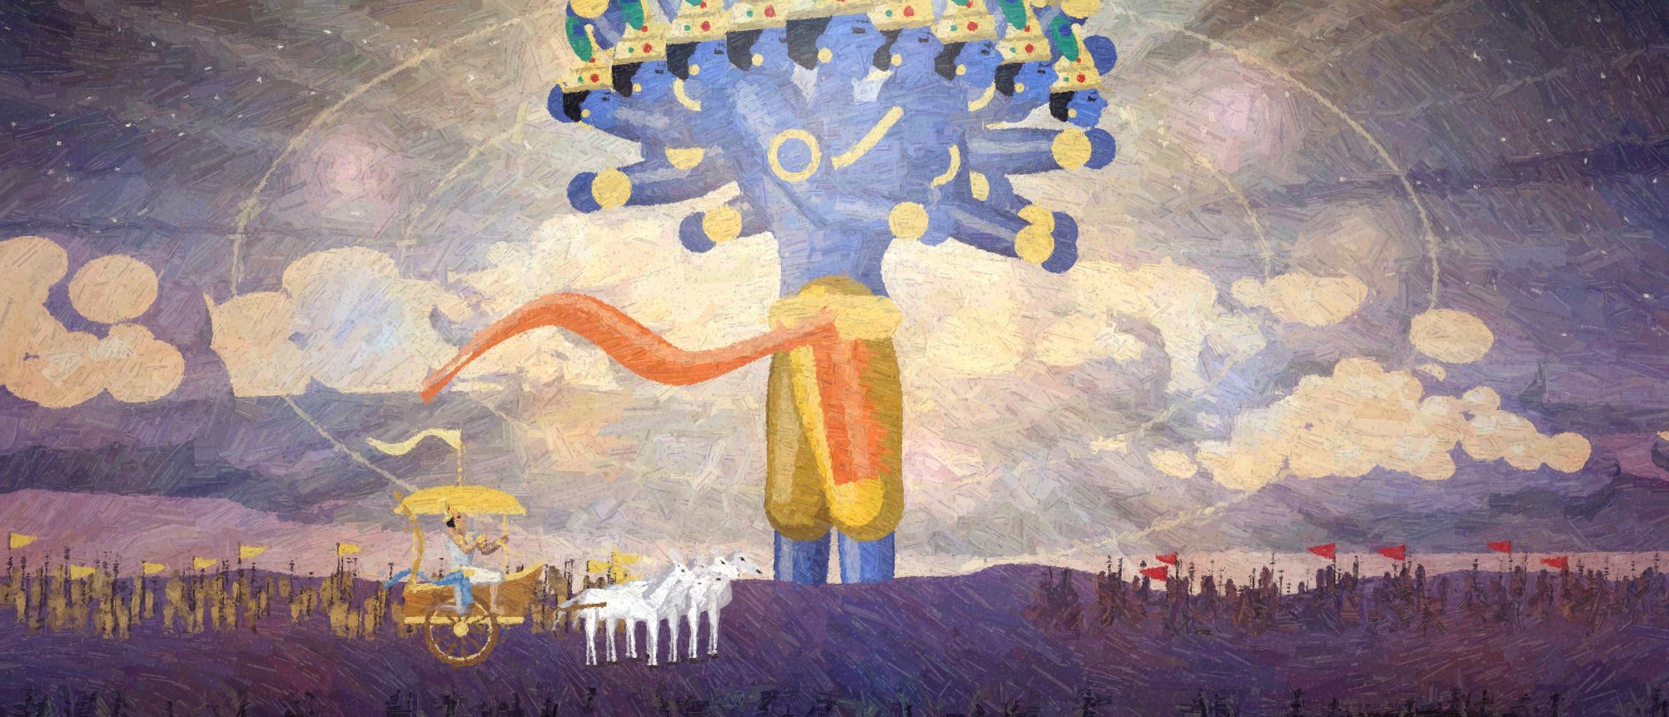
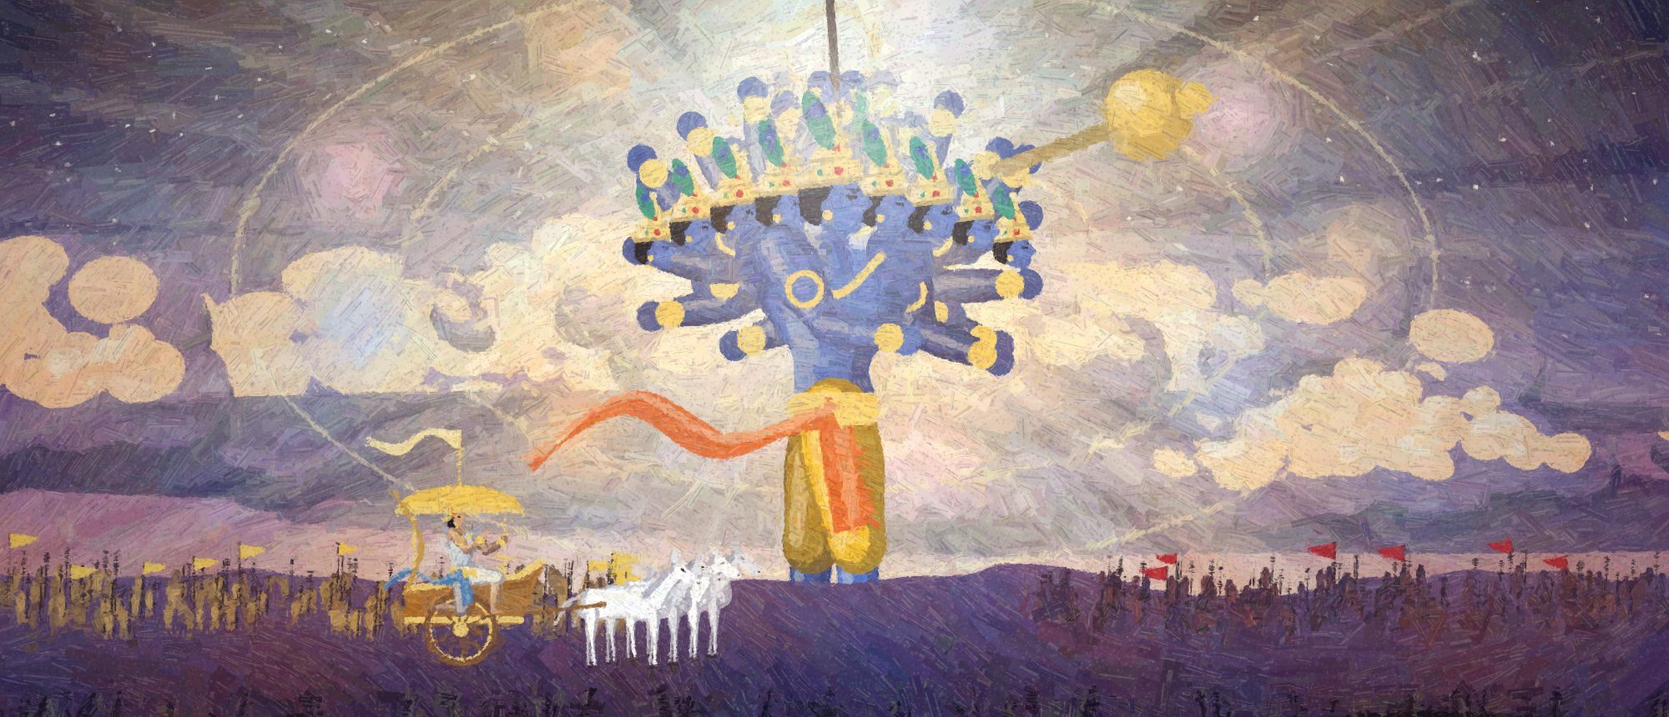
Add Rama and Krishna portrait sets and extra Krishna landscapes
Claude-Session: https://claude.ai/code/session_016Cy5w1rxz1iEofUDAdDbsE

diff --git a/public/epics/portraits.js b/public/epics/portraits.js
@@ -1,0 +1,305 @@
+/* Rama and Krishna: portrait paintings (1200 x 1800) and extra Krishna landscapes. */
+(function () {
+  'use strict';
+  const { mix, lite, dark } = Epic;
+  const { F, scr, hut, boat, ARCH, PRAY, KNEEL, SIT, SAGE, KING, HANU } = Epic.kit;
+  const RAMA = { skin: '#5f86b8', cloth: '#f0b93a', cloth2: '#e8703a', crown: 'bun', hair: '#1f1a2a', thread: true };
+  const RAMA_K = Object.assign({}, RAMA, { crown: 'mukut' });
+  const LAK = { skin: '#e0b287', cloth: '#5d8fb5', cloth2: '#f0b93a', crown: 'bun', hair: '#1f1a2a' };
+  const SITA = { skin: '#e7b991', robe: '#d9483b', drape: '#f0b93a', longhair: true, crown: 'none', hair: '#1f1a2a', sash: false, aN: [14, 40], aF: [-6, 20] };
+  const RAVAN = { skin: '#8f6f9c', cloth: '#6b2f4f', cloth2: '#c9463a', heads: 4, broad: 1.45, fangs: true, hair: '#1a1220', gold: '#f2c85a' };
+  const KRISHNA = { skin: '#4a69a8', cloth: '#f2c23a', cloth2: '#e8703a', crown: 'mukut', feather: true, hair: '#17131f', gold: '#f6d77a' };
+  const ARJUNA = { skin: '#d9a77c', cloth: '#f1ead8', cloth2: '#4f7fb5', crown: 'mukut', hair: '#1f1a2a', top: '#c9d2dc' };
+  const DURYO = { skin: '#c99a78', top: '#6a4a8a', cloth: '#4a2f6a', cloth2: '#b8323a', crown: 'mukut', hair: '#17131f', broad: 1.35 };
+  const KARNA = { skin: '#e0ae7a', top: '#f2c85a', cloth: '#e8703a', cloth2: '#f6e0a0', crown: 'mukut', hair: '#1f1a2a', gold: '#fff0a8' };
+  const BHISHMA = { skin: '#d9b08c', top: '#dfe6ee', cloth: '#f1ead8', cloth2: '#9ab0c8', crown: 'mukut', hair: '#f1ece4', beard: '#f6f1ea', gold: '#e6ecf2' };
+  const DRAU = { skin: '#b98866', robe: '#b8323a', drape: '#f0b93a', longhair: true, crown: 'none', hair: '#17131f', sash: false, aN: [14, 40], aF: [-6, 20] };
+  const PW = 1200, PH = 1800;
+  const base = (p, col, y) => { p.ridge({ y: (y || PH - 20), amp: 14, col: col, seed: 3, freq: 0.004 }); p.grass(0, p.W, (y || PH - 20) - 8, 30, col, 90); };
+  const arch = (p, col, gold) => { p.pillar(110, 1560, 130, 1320, col); p.pillar(1090, 1560, 130, 1320, col); const c = p.c; c.strokeStyle = Epic.css(col); c.lineWidth = 90; c.beginPath(); c.ellipse(600, 300, 490, 240, 0, Math.PI, Math.PI * 2); c.stroke(); c.strokeStyle = Epic.css(gold); c.lineWidth = 12; c.beginPath(); c.ellipse(600, 300, 440, 200, 0, Math.PI, Math.PI * 2); c.stroke(); };
+  const petals = (p, n, cols) => { for (let i = 0; i < n; i++) p.ell(p.rr(0, p.W), p.rr(0, p.H), p.rr(5, 11), p.rr(3, 6), cols[i % cols.length], 0.95, p.rr(0, 3)); };
+  const R = [], K = [], KL = [];
+  const P = (arr, o) => arr.push(Object.assign({ w: PW, h: PH }, o));
+
+  // ---------------- Rama ----------------
+  P(R, { title: 'Rama, Prince of Ayodhya', kanda: 'Bala Kanda', seed: 301, light: -1,
+    text: 'Valmiki asks who in this world is truly virtuous, truthful and firm in his vows. Narada answers with one name: Rama of the line of Ikshvaku.',
+    draw(p) {
+      p.sky(['#8fa6da', '#cfc4e4', '#f8dcc4', '#fbe8b8']); p.sun(600, 620, 250, '#fff6d4', '#ffdc9c'); p.rays(600, 620, 40, 1500, '#fff0c4', 0.18);
+      p.clouds({ n: 6, y0: 80, y1: 520, size: 150, col: '#fbf0e8', shadow: '#aaa2d4' });
+      p.city({ x0: 0, x1: PW, base: 1320, h: 520, n: 16, col: '#e6cfa4', col2: '#d8acac', gold: '#fff0b0', peakX: 600, peakW: 500 }); p.fade('#f8e0c4', 0.45);
+      arch(p, '#b88a7a', '#f6d77a'); p.rect(0, 1540, PW, 260, '#c8a48a'); for (let i = 0; i < 6; i++) p.rect(200 - i * 40, 1500 + i * 30, 800 + i * 80, 30, i % 2 ? '#e0c0a0' : '#c8a488');
+      F(p, 600, 1500, 900, RAMA_K, { f: 1, lN: [12, 2], lF: [-12, -4], aN: [10, 30], aF: [40, 96], halo: '#fff6c8', haloR: 6, prop: { type: 'bow', hand: 'F', ang: 178, len: 0.44 } });
+      petals(p, 120, ['#fbd0dc', '#fff3c0', '#f6a8b8']); p.lamp(240, 1560, 20); p.lamp(960, 1560, 20); base(p, '#5a3f4a');
+    } });
+  P(R, { title: 'Into the Forest', kanda: 'Ayodhya Kanda', seed: 302, light: 1,
+    text: 'Rama walks into fourteen years of exile as calmly as he would have walked to his coronation. Sita follows him, and Lakshmana follows them both.',
+    draw(p) {
+      p.sky(['#c4d8c8', '#e6ecd0', '#f8f0cc', '#f0e0b0']); p.sun(820, 380, 90, '#fffbe0', '#fff0b4');
+      p.forest({ x0: -60, x1: PW + 60, base: 1250, jit: 30, h: 900, n: 12, col: '#b0c8a8', col2: '#c6d0a4', trunk: '#a09890' }); p.fade('#f4ecc8', 0.5);
+      p.forest({ x0: -60, x1: PW + 60, base: 1400, jit: 30, h: 1150, n: 7, col: '#86a884', col2: '#a0b47c', trunk: '#786a66', flowers: '#f6cad8' });
+      p.rays(820, 380, 26, 1900, '#fff6cc', 0.26, 40, 150); p.fade('#f2e6b8', 0.25);
+      const g = p.ridge({ y: 1500, amp: 30, col: '#c4c080', col2: '#7a8a54', seed: 6, freq: 0.004 }); p.poly([[520, 1480], [680, 1480], [1000, 1800], [200, 1800]], '#e4d4a0', 0.8);
+      F(p, 640, 1560, 420, RAMA, { f: 1, lN: [22, 5], lF: [-20, -26], prop: { type: 'bow', hand: 'N', ang: 176 }, halo: '#fff6c8' });
+      F(p, 460, 1590, 370, SITA, { f: 1, lN: [16, 4], lF: [-12, -16] }); F(p, 290, 1620, 400, LAK, { f: 1, lN: [22, 5], lF: [-20, -26], prop: { type: 'bow', hand: 'N', ang: 176 } });
+      p.quad(960, 1540, 110, { kind: 'deer', f: -1, col: '#c9a070', spots: '#f6e6c8' }); p.grass(0, PW, g, 30, '#98a45c', 160);
+      for (let i = 0; i < 60; i++) p.circ(p.rr(0, PW), p.rr(1520, 1780), p.rr(4, 8), p.r() < 0.5 ? '#f8d0dc' : '#fff4c4');
+      p.tree(40, 1860, 1900, { col: '#35503f', trunk: '#241a26', spread: 0.28 }); p.tree(1180, 1880, 1700, { col: '#3b5540', trunk: '#241a26', spread: 0.26 }); p.birds(10, 200, 200, 1000, 700, '#6a7460', 9); base(p, '#2a2e28');
+    } });
+  P(R, { title: 'The Moonlit Hermitage', kanda: 'Aranya Kanda', seed: 303, light: -1,
+    text: 'At Panchavati on the Godavari, Lakshmana builds a hut of bamboo and leaves. For a little while the exile is the happiest time of their lives.',
+    draw(p) {
+      p.sky(['#1c2452', '#3a4484', '#6e74a8', '#b0a4bc']); p.stars(260, 900); p.sun(860, 330, 110, '#f8f6e4', '#b4c0ea');
+      p.clouds({ n: 6, y0: 100, y1: 600, size: 150, col: '#5a62a0', shadow: '#2a3066', light: '#ccd0ea' });
+      p.ridge({ y: 1000, amp: 160, col: '#4a5890', col2: '#6a70a0', seed: 12 }); p.forest({ x0: 0, x1: PW, base: 1120, jit: 12, h: 260, n: 16, col: '#3f5a78', col2: '#4f6a70', trunk: '#2a2f50' });
+      p.sea(1130, '#a8b0d4', '#2f3a78', '#f4f4e0', 860, 1420); scr(p, () => p.rays(860, 330, 16, 1700, '#d8def8', 0.14, 60, 130));
+      const g = p.ridge({ y: 1440, amp: 24, col: '#5a6a86', col2: '#2f3a56', seed: 4, freq: 0.004 });
+      p.tree(250, 1480, 900, { col: '#3f6a6e', trunk: '#2a2238', spread: 0.42, flowers: '#e8dcc0' }); hut(p, 330, 1470, 380); scr(p, () => p.glow(330, 1400, 200, '#ffc870', 0.8)); p.lamp(330, 1470, 14);
+      F(p, 720, 1560, 400, RAMA, SIT, { f: -1, halo: '#e6e8ff', aN: [60, 90] }); F(p, 560, 1560, 360, SITA, SIT, { f: 1, aN: [60, 100] });
+      F(p, 1020, 1520, 360, LAK, { f: -1, prop: { type: 'bow', hand: 'N', ang: 178 } }); p.quad(900, 1660, 120, { kind: 'deer', f: -1, col: '#a89a8a', spots: '#e6e6f0' });
+      p.grass(0, PW, g, 26, '#4a6a70', 120); for (let i = 0; i < 40; i++) scr(p, () => p.glow(p.rr(0, PW), p.rr(900, 1700), p.rr(6, 14), '#e6ffb0', 0.9)); base(p, '#12101c');
+    } });
+  P(R, { title: 'Rama and Hanuman', kanda: 'Kishkindha Kanda', seed: 304, light: 1,
+    text: 'Rama praises Hanuman\'s first speech to Lakshmana: no one could speak so without mastering the Vedas. From this meeting Hanuman is his for ever.',
+    draw(p) {
+      p.sky(['#86a6da', '#bccae8', '#f2deca', '#fbe8b8']); p.sun(900, 520, 110, '#fff8d4', '#ffe2a8'); p.rays(900, 520, 28, 1700, '#fff2c8', 0.16);
+      p.clouds({ n: 7, y0: 80, y1: 620, size: 160, col: '#fdf4ea', shadow: '#a8aad6' });
+      p.ridge({ y: 1050, amp: 260, col: '#a8a8ce', col2: '#c8bcce', seed: 41, peak: [300, 300, 300] }); p.ridge({ y: 1220, amp: 120, col: '#b2a68c', col2: '#cabb92', seed: 23, lit: '#e8d8aa' }); p.fade('#f2e2cc', 0.3);
+      const g = p.ridge({ y: 1480, amp: 40, col: '#ba9c74', col2: '#7a6650', seed: 5, freq: 0.005, lit: '#e2c892' });
+      for (const x of [140, 1050]) p.rock(x, g(x) + 30, 280, 170, '#9a8468');
+      F(p, 740, 1560, 720, RAMA, { f: -1, aN: [50, 70], aF: [20, 40], halo: '#fff6c8', haloR: 6, prop: { type: 'bow', hand: 'F', ang: 176 } });
+      F(p, 400, 1580, 620, HANU, KNEEL, PRAY, { f: 1, head: -16 }); scr(p, () => p.glow(560, 1150, 260, '#fff2c0', 0.5));
+      p.grass(0, PW, g, 24, '#a89a60', 100); p.tree(1160, 1860, 1500, { col: '#40583f', trunk: '#241a26', spread: 0.26 }); p.birds(12, 100, 200, 900, 700, '#5a5a82', 9); base(p, '#2a2228');
+    } });
+  P(R, { title: 'Refuge for Vibhishana', kanda: 'Yuddha Kanda', seed: 305, light: -1,
+    text: '"To anyone who comes to me even once and says, I am yours, I give safety from all beings. This is my vow." Rama accepts the brother of his enemy against every counsel of caution.',
+    draw(p) {
+      p.sky(['#4a5a94', '#8a82b4', '#e4a88c', '#fbd49c']); p.sun(300, 760, 100, '#fff2c4', '#ffb884'); p.clouds({ n: 8, y0: 60, y1: 640, size: 190, col: '#8a74a8', shadow: '#3f3a72', light: '#f6bc94' });
+      p.sea(900, '#f2c4a4', '#4a5a98', '#fff2c8', 300, 1400); p.waves(1150, 1400, '#5a6aa4', 30, '#ffe8cc');
+      scr(p, () => p.glow(520, 300, 420, '#fff0d0', 0.5));
+      p.c.globalAlpha = 0.9; F(p, 520, 420, 300, { skin: '#a892b8', cloth: '#f1ead8', cloth2: '#c9a060', crown: 'mukut', gold: '#f2c85a', hair: '#1a1220', fly: true, f: 1, lean: 30, lN: [-40, -70], lF: [-20, -60] }, PRAY); p.c.globalAlpha = 1; p.ribbon([[440, 480], [300, 560], [160, 520], [40, 600]], 90, '#f6e6f0', 0.6);
+      const g = p.ridge({ y: 1440, amp: 30, col: '#c9b48c', col2: '#6a5a50', seed: 9, freq: 0.005 });
+      F(p, 760, 1540, 660, RAMA, { f: -1, aN: [150, 172], aF: [20, 50], halo: '#fff6c8', haloR: 6, prop: { type: 'bow', hand: 'F', ang: 176 } });
+      F(p, 1010, 1560, 420, LAK, { f: -1 }); F(p, 300, 1580, 440, HANU, { f: 1, aN: [130, 160] }); p.crowd({ x0: 0, x1: 240, y: 1600, jit: 20, h: 130, n: 8, col: '#a8784a', col2: '#8a6a4a', tail: -1, spears: 0.2 });
+      p.tree(1150, 1800, 1300, { col: '#2f4a44', trunk: '#1c1626', kind: 'palm' }); p.birds(14, 300, 500, 1100, 900, '#3a3055', 9); base(p, '#1c1626');
+    } });
+  P(R, { title: 'The Archer and the Ten-Headed King', kanda: 'Yuddha Kanda', seed: 306, light: -1,
+    text: 'When Ravana stands disarmed and exhausted on the first day, Rama does not strike. "Go, rest, and come back tomorrow with your chariot and your bow."',
+    draw(p) {
+      p.sky(['#3a2f66', '#7a548a', '#dc9474', '#f8d09a']); p.clouds({ n: 9, y0: 40, y1: 700, size: 220, col: '#84648e', shadow: '#40305e', light: '#f0b088' });
+      scr(p, () => p.glow(300, 1300, 600, '#fff0b8', 0.7));
+      F(p, 760, 1500, 1260, RAVAN, { f: -1, lean: 4, lN: [20, 6], lF: [-22, -10], aN: [124, 156], aF: [80, 40], arms: [[150, 176], [100, 124], [56, 96], [156, 120]], cape: '#4a2a50', prop: [{ type: 'sword', hand: 'N', ang: 168, len: 0.4 }] });
+      p.fade('#c08488', 0.3, 0, 1500);
+      for (const x of [140, 980]) { p.fire(x, 1380, 160, 260, { sway: -0.3 }); p.smoke(x, 1160, 90, 400, '#5a4468', -0.5); }
+      const g = p.ridge({ y: 1480, amp: 26, col: '#a67a6a', col2: '#5a3f4a', seed: 8, freq: 0.004 });
+      p.crowd({ x0: 500, x1: PW, y: 1500, jit: 30, h: 60, n: 60, col: '#4a3350', col2: '#6a3f4f', spears: 0.5, banners: 0.08, bannerCol: '#b8323a', dir: -1 });
+      const Rm = F(p, 300, 1640, 520, RAMA, ARCH, { f: 1, lean: -14, aF: [124, 126], aN: [128, -46], halo: '#fff2b8', prop: { type: 'bow', hand: 'F', ang: 212, drawn: true, glow: '#fff0a0', len: 0.46 } });
+      scr(p, () => p.rays(Rm.hF[0] + 40, Rm.hF[1] - 40, 12, 900, '#fff0b0', 0.3, -70, -30)); base(p, '#2b1c30');
+    } });
+  P(R, { title: 'The Last Rites of an Enemy', kanda: 'Yuddha Kanda', seed: 307, light: 1,
+    text: '"Enmity ends with death. Our purpose is accomplished. Perform his rites: he is now as much mine as yours." Rama tells Vibhishana to honour the fallen Ravana.',
+    draw(p) {
+      p.sky(['#2a2a5c', '#5e4a84', '#c47a6c', '#f6bc80']); p.stars(120, 600); p.clouds({ n: 8, y0: 60, y1: 600, size: 200, col: '#6a4f84', shadow: '#2e2654', light: '#f0a078' });
+      p.ridge({ y: 1040, amp: 100, col: '#5a4680', col2: '#8a5a80', seed: 6 }); p.sea(1080, '#e89a78', '#3a3470', '#ffdca0', 600, 1360);
+      scr(p, () => p.glow(600, 900, 620, '#ffb060', 0.7)); p.smoke(600, 760, 150, 700, '#4a3458', 0.25);
+      for (let i = 0; i < 5; i++) p.rect(380, 1330 + i * 22, 440, 20, i % 2 ? '#6a4634' : '#8a5f44'); p.fire(600, 1330, 380, 560);
+      const g = p.ridge({ y: 1460, amp: 20, col: '#8a5a54', col2: '#33243a', seed: 4, freq: 0.004 });
+      F(p, 960, 1600, 520, RAMA, { f: -1, head: 14, aN: [20, 40], halo: '#fff2c0', prop: { type: 'bow', hand: 'F', ang: 176 } }); F(p, 1120, 1620, 420, LAK, { f: -1, head: 14 });
+      F(p, 280, 1600, 460, { skin: '#a892b8', cloth: '#f1ead8', cloth2: '#c9a060', crown: 'bun', gold: '#f2c85a', hair: '#1a1220' }, { f: 1, aN: [70, 96], head: 18, prop: { type: 'staff', hand: 'N', ang: 96, len: 0.3, col: '#f8a33c' } });
+      p.crowd({ x0: 0, x1: 180, y: 1640, jit: 16, h: 160, n: 5, col: '#2a2038', col2: '#4a3048' });
+      for (let i = 0; i < 160; i++) p.rect(p.rr(200, 1000), p.rr(200, 1300), p.rr(3, 8), p.rr(3, 8), p.r() < 0.5 ? '#ffe08a' : '#ff9a3a', p.rr(0.5, 1)); base(p, '#17121f');
+    } });
+  P(R, { title: 'Rama Pattabhisheka', kanda: 'Yuddha Kanda', seed: 308, light: -1,
+    text: 'Rama is crowned at last with Sita beside him. Valmiki says that while he ruled no widow mourned, no one feared wild beasts or disease, and the rains came on time.',
+    draw(p) {
+      p.sky(['#d8c4e0', '#f2d8d0', '#fbe8c8', '#f8deb0']); p.city({ x0: 0, x1: PW, base: 1200, h: 700, n: 14, col: '#d8bed2', col2: '#e8cec2', gold: '#f8e2a2' }); p.fade('#f8e4cc', 0.5);
+      arch(p, '#c49a8a', '#f6d77a'); scr(p, () => { p.glow(600, 620, 620, '#fff4c8', 0.9); p.rays(600, 620, 36, 1300, '#fff2c0', 0.22); });
+      for (let i = 0; i < 7; i++) p.ribbon([[220 + i * 130, 230], [250 + i * 130, 340], [220 + i * 130, 450], [260 + i * 130, 560]], 44, i % 2 ? '#e8703a' : '#f0b93a', 0.85);
+      p.rect(0, 1500, PW, 300, '#c8a48a'); for (let i = 0; i < 5; i++) p.rect(240 - i * 40, 1380 + i * 32, 720 + i * 80, 32, i % 2 ? '#e6c8a4' : '#d0aa8c');
+      p.rect(360, 900, 480, 480, '#b8323a'); p.rect(340, 860, 520, 50, '#f6d77a'); p.pillar(370, 1380, 40, 520, '#f0c85a'); p.pillar(830, 1380, 40, 520, '#f0c85a'); p.line(600, 560, 600, 860, 8, '#f0c85a'); p.c.fillStyle = '#fff6e0'; p.c.beginPath(); p.c.ellipse(600, 560, 250, 90, 0, Math.PI, 6.283); p.c.fill(); p.rect(350, 552, 500, 16, '#f0c85a');
+      F(p, 520, 1380, 560, RAMA_K, SIT, { f: 1, halo: '#fff6c8', haloR: 5, aN: [60, 96], prop: { type: 'bow', hand: 'F', ang: 178, len: 0.4 } }); F(p, 720, 1380, 480, SITA, SIT, { f: -1, crown: 'mukut', longhair: true });
+      F(p, 600, 1640, 380, HANU, KNEEL, PRAY, { f: -1, head: -30 }); F(p, 220, 1560, 440, LAK, { f: 1, aN: [150, 170] }); F(p, 990, 1560, 430, { skin: '#6f8fb8', cloth: '#b98a5a', cloth2: '#8a6a4a', crown: 'mukut', hair: '#1f1a2a' }, PRAY, { f: -1 });
+      petals(p, 220, ['#fbd0dc', '#fff3c0', '#f6a8b8', '#ffffff']); p.lamp(120, 1700, 22); p.lamp(1080, 1700, 22); base(p, '#5a3f4a');
+    } });
+
+  // ---------------- Krishna ----------------
+  P(K, { title: 'Krishna of Dvaraka', kanda: 'Sabha Parva', seed: 401, light: 1,
+    text: 'He is never crowned. Ugrasena is king of the Yadavas; Krishna is counsellor, envoy, charioteer and friend, and at Yudhishthira\'s sacrifice he is chosen first among all the guests.',
+    draw(p) {
+      p.sky(['#7f9ad6', '#b8bce6', '#f4d6cc', '#fde8bc']); p.sun(880, 700, 120, '#fff4c4', '#ffd49c'); p.rays(880, 700, 30, 1700, '#fff0c8', 0.16);
+      p.clouds({ n: 7, y0: 60, y1: 600, size: 170, col: '#fbeee8', shadow: '#a8a0d4' });
+      p.sea(980, '#b8d2de', '#4c80a2', '#fff4d0', 880, 1420);
+      p.ridge({ y: 990, amp: 14, col: '#a89ec8', peak: [300, 240, 120], seed: 4, bottom: 985 }); p.city({ x0: 60, x1: 560, base: 890, h: 330, n: 18, col: '#eacf8c', col2: '#c9a8c4', gold: '#fff0b0', peakX: 300, peakW: 170 }); p.fade('#f6dcc8', 0.16, 600, 1000);
+      p.waves(1150, 1420, '#5a90b0', 26, '#f6fbf6');
+      const g = p.ridge({ y: 1450, amp: 26, col: '#c9b88a', col2: '#6a5a50', seed: 9, freq: 0.005 });
+      F(p, 620, 1580, 900, KRISHNA, { f: 1, lN: [10, 14], lF: [14, -8], aN: [60, 130], aF: [70, 126], halo: '#fff6c8', haloR: 6, tilak: '#f6d77a', head: 6, prop: { type: 'flute', hand: 'N' } });
+      p.eagle(250, 1500, 150, { f: 1, col: '#2f7a8a', head: '#3b4fa8', gold: '#f0c85a', tip: '#2e8f7a', up: 0.1, spread: 0.1 }); for (let i = 0; i < 8; i++) p.ell(120 + i * 10, 1500 + i * 14, 14, 50, i % 2 ? '#2e8f7a' : '#3b4fa8', 0.9, -0.9);
+      p.quad(1010, 1600, 190, { kind: 'deer', f: -1, col: '#f1ead8', antlers: false, mane: '#c9b8a0' }); p.grass(0, PW, g, 24, '#a89a60', 100); p.birds(14, 100, 300, 1100, 800, '#f6f1e6', 9); base(p, '#2a2228');
+    } });
+  P(K, { title: 'Protector of Draupadi', kanda: 'Sabha Parva', seed: 402, light: -1,
+    text: 'When the elders sit silent and her husbands cannot act, Draupadi calls on the one who is far away in Dvaraka. The cloth does not end.',
+    draw(p) {
+      p.sky(['#3a2a50', '#6a4468', '#b87a70', '#f0c090']); p.pillar(100, 1560, 120, 1560, '#7a5870'); p.pillar(1100, 1560, 120, 1560, '#7a5870'); p.fade('#a86a70', 0.3);
+      scr(p, () => { p.glow(600, 200, 900, '#fff0c8', 0.95); p.rays(600, 160, 36, 1700, '#fff3d0', 0.28, 20, 160); });
+      p.c.globalAlpha = 0.6; F(p, 600, 620, 760, KRISHNA, { fly: true, f: 1, skin: '#8fa8e0', aN: [70, 40], aF: [80, 50], lN: [3, 0], lF: [-3, 0], halo: '#fff6d8', haloR: 8 }); p.c.globalAlpha = 1; p.fade('#f6e0c0', 0.22, 0, 1200);
+      p.rect(0, 1540, PW, 260, '#8a5a62');
+      const cols = ['#d9483b', '#f0b93a', '#e8703a', '#f6d36a', '#c9463a', '#f8e0a0'];
+      for (let k = 0; k < 6; k++) { const Q = []; for (let i = 0; i <= 18; i++) { const t = i / 18, a = t * 11 + k * 1.05, r = 50 + t * 420; Q.push([600 + Math.cos(a) * r, 1380 - t * 1300 + Math.sin(a) * r * 0.2]); } p.tube(Q, t => 54 + 44 * Math.sin(t * 12 + k), 0, cols[k], 10); p.tube(Q.map(q => [q[0], q[1] - 12]), 12, 12, lite(cols[k], 0.4), 10); }
+      for (let i = 0; i < 26; i++) { const x = p.rr(150, 520), y = p.rr(1580, 1760); p.blob([[x - 90, y + 20], [x - 30, y - p.rr(20, 70)], [x + 40, y - p.rr(10, 50)], [x + 100, y + 24]], cols[i % 6]); }
+      F(p, 600, 1640, 460, DRAU, { f: 1, aN: [164, 178], aF: [158, 176], halo: '#fff6d0', head: -24 });
+      F(p, 300, 1700, 420, { skin: '#b88a6a', top: '#5a4a7a', cloth: '#3a2a5a', cloth2: '#8a3a4a', crown: 'mukut', hair: '#17131f', broad: 1.3 }, { f: 1, lean: 34, aN: [80, 100], aF: [70, 96], lN: [50, -10], lF: [-10, -50] });
+      for (const x of [920, 1030]) F(p, x, 1650, 330, x < 1000 ? BHISHMA : DURYO, SIT, { f: -1, head: 26 }); base(p, '#1c1422');
+    } });
+  P(K, { title: 'The Envoy of Peace', kanda: 'Udyoga Parva', seed: 403, light: 1,
+    text: 'Before the war Krishna goes to Hastinapura himself. He asks for five villages for five brothers. Duryodhana answers that he will not give land enough to cover the point of a needle.',
+    draw(p) {
+      p.sky(['#d6c4de', '#f0d8d0', '#fbe6c6', '#f6dcae']); p.city({ x0: 0, x1: PW, base: 1250, h: 760, n: 14, col: '#d6bed0', col2: '#e6cec0', gold: '#f6e0a0' }); p.fade('#f6e2cc', 0.5);
+      arch(p, '#8a6a7a', '#e6c878'); scr(p, () => { p.glow(600, 700, 560, '#fff6d4', 0.8); p.rays(600, 700, 30, 1300, '#fff4c8', 0.18); });
+      p.rect(0, 1500, PW, 300, '#b8947e'); p.poly([[420, 1500], [780, 1500], [1000, 1800], [200, 1800]], '#b8323a'); p.poly([[450, 1500], [750, 1500], [940, 1800], [260, 1800]], '#d9583a');
+      F(p, 600, 1600, 820, KRISHNA, { f: 1, aN: [120, 150], aF: [20, 60], lN: [16, 3], lF: [-14, -8], halo: '#fff6c8', haloR: 6 });
+      F(p, 1010, 1620, 420, DURYO, { f: -1, aN: [40, 120], aF: [30, 110], lean: -6 }); F(p, 220, 1620, 430, BHISHMA, { f: 1, head: 12 });
+      p.crowd({ x0: 0, x1: 150, y: 1650, jit: 14, h: 170, n: 4, col: '#5a3f5a', col2: '#8a5a6a', spears: 0.6 }); p.crowd({ x0: 1080, x1: PW, y: 1660, jit: 14, h: 170, n: 4, col: '#5a3f5a', col2: '#8a5a6a', spears: 0.6 }); p.lamp(330, 1560, 16); p.lamp(870, 1560, 16); base(p, '#4a3442');
+    } });
+  P(K, { title: 'Parthasarathi', kanda: 'Bhishma Parva', seed: 404, light: 1,
+    text: 'He has sworn to carry no weapon in this war. Krishna takes the reins of Arjuna\'s chariot and drives it out between the two armies.',
+    draw(p) {
+      p.sky(['#6a7ac0', '#b0a8dc', '#f3c8b8', '#fde2a8']); p.sun(600, 900, 150, '#fff3c0', '#ffc890'); p.rays(600, 900, 44, 1700, '#ffe6b8', 0.2);
+      p.clouds({ n: 9, y0: 40, y1: 700, size: 190, col: '#f6dcd6', shadow: '#9a90c8', light: '#fff0d0' });
+      p.ridge({ y: 1100, amp: 26, col: '#b8a0c0', col2: '#d6b8b0', seed: 4 }); p.fade('#f6d6b8', 0.3, 900, 1260);
+      p.crowd({ x0: 0, x1: 440, y: 1160, jit: 20, h: 40, n: 90, col: '#c9a060', col2: '#e6d0a0', spears: 0.6, banners: 0.08, bannerCol: '#f0c85a' }); p.crowd({ x0: 760, x1: PW, y: 1160, jit: 20, h: 40, n: 90, col: '#5a4a6a', col2: '#8a5a5a', spears: 0.6, banners: 0.08, bannerCol: '#b8323a', dir: -1 });
+      const g = p.ridge({ y: 1320, amp: 20, col: '#d6c08a', col2: '#8a7450', seed: 6, freq: 0.004 });
+      const d = p.chariot(430, 1640, 430, { f: 1, col: '#b0763a', horse: '#ffffff', canopyCol: '#f0c85a', flag: '#f6e0a0', horses: 4, gait: 'walk' });
+      F(p, d.x - 40, d.y, 520, ARJUNA, { f: 1, head: 14, aN: [20, 40], prop: { type: 'bow', hand: 'F', ang: 178 } });
+      const Kr = F(p, d.x + 190, d.y, 500, KRISHNA, { f: 1, aN: [70, 96], aF: [60, 90], halo: '#fff6c8', haloR: 5, head: -90 + 76 });
+      p.line(Kr.hN[0], Kr.hN[1], d.x + 600, d.y - 60, 4, '#5a3f34'); p.line(Kr.hF[0], Kr.hF[1], d.x + 640, d.y - 90, 4, '#5a3f34');
+      p.grass(0, PW, g, 20, '#a89a5a', 90); p.birds(22, 100, 100, 1100, 700, '#3a3055', 10); base(p, '#3a2a36');
+    } });
+  P(K, { title: 'Vishvarupa', kanda: 'Bhishma Parva (Gita 11)', seed: 405, light: -1,
+    text: '"I am Time, grown old to destroy the worlds. Even without you, none of these warriors will remain. Therefore rise: be only the instrument."',
+    draw(p) {
+      p.sky(['#141433', '#33306a', '#8a5a90', '#f0b070']); p.stars(300, 1100);
+      scr(p, () => { p.glow(600, 520, 1100, '#ffe6a0', 0.95); p.rays(600, 520, 60, 1900, '#fff3c0', 0.3); for (let i = 0; i < 10; i++) p.glow(600 + Math.cos(i * 0.63) * 460, 560 + Math.sin(i * 0.63) * 420, 80, ['#ffd0a0', '#c0d0ff', '#ffe0f0'][i % 3], 0.8); });
+      for (const r of [300, 440, 560]) { p.c.strokeStyle = 'rgba(255,240,190,0.5)'; p.c.lineWidth = 5; p.c.beginPath(); p.c.ellipse(600, 600, r, r * 1.05, 0, 0, 6.3); p.c.stroke(); }
+      const arms = []; for (let i = 0; i < 12; i++) arms.push([40 + i * 13, 70 + i * 11]);
+      const o = { skin: '#5a7ad0', broad: 1.35, lN: [10, 2], lF: [-10, -3] };
+      F(p, 600, 1560, 1180, KRISHNA, o, { f: 1, heads: 4, arms: arms, aN: [150, 176], aF: [110, 140], halo: '#fff6c0', haloR: 9, prop: [{ type: 'chakra', hand: 'N' }, { type: 'mace', hand: 'F', ang: 110, len: 0.22 }] });
+      F(p, 600, 1560, 1180, KRISHNA, o, { f: -1, arms: arms, aN: [150, 176], aF: [110, 140], crown: 'none', sash: false, prop: [{ type: 'trident', hand: 'N', ang: 176, len: 0.28 }] });
+      F(p, 600, 1560, 1180, KRISHNA, o, { f: 1, heads: 4, aN: [30, 80], aF: [20, 70], halo: '#fff6c0', haloR: 5 });
+      p.fade('#f6c890', 0.16, 0, 1500); p.clouds({ n: 6, y0: 1380, y1: 1520, size: 200, col: '#6a4f88', shadow: '#2a2456', light: '#f6c090' });
+      p.ridge({ y: 1560, amp: 30, col: '#7a5a80', col2: '#3a2a4a', seed: 6 }); p.crowd({ x0: 0, x1: PW, y: 1600, jit: 30, h: 46, n: 120, col: '#4a3a5a', col2: '#c9a060', spears: 0.6, banners: 0.06, bannerCol: '#b8323a' });
+      F(p, 300, 1720, 260, ARJUNA, KNEEL, PRAY, { f: 1, head: -40 }); base(p, '#17121f');
+    } });
+  P(K, { title: 'The Wheel Against Bhishma', kanda: 'Bhishma Parva', seed: 406, light: 1,
+    text: 'Seeing Arjuna fight his grandsire half-heartedly, Krishna leaps down and runs at Bhishma with a chariot wheel, breaking his own vow. Bhishma drops his bow and welcomes him with folded hands.',
+    draw(p) {
+      p.sky(['#5a6ab4', '#a89cd4', '#f0bca8', '#fbdca0']); p.sun(250, 800, 110, '#fff2c4', '#ffc088'); p.rays(250, 800, 30, 1700, '#ffe4b4', 0.18);
+      p.clouds({ n: 8, y0: 60, y1: 640, size: 190, col: '#eccfd2', shadow: '#8f86c0', light: '#fff0d4' });
+      p.ridge({ y: 1100, amp: 30, col: '#a890b8', col2: '#d0a8a8', seed: 5 }); p.crowd({ x0: 0, x1: PW, y: 1160, jit: 22, h: 40, n: 160, col: '#5a4a6a', col2: '#c9a060', spears: 0.6, banners: 0.07, bannerCol: '#b8323a' });
+      for (let i = 0; i < 18; i++) p.circ(p.rr(0, PW), p.rr(1180, 1420), p.rr(60, 150), '#f0d0a8', 0.3);
+      const g = p.ridge({ y: 1440, amp: 20, col: '#d0b488', col2: '#7a6450', seed: 6, freq: 0.004 });
+      const Kr = F(p, 470, 1600, 760, KRISHNA, { f: 1, lean: 18, lN: [40, -4], lF: [-30, -44], aN: [160, 174], aF: [140, 168], halo: '#fff6c8', haloR: 5, sash: true });
+      const wx = (Kr.hN[0] + Kr.hF[0]) / 2 + 20, wy = Kr.hN[1] - 120; scr(p, () => p.glow(wx, wy, 300, '#fff0b0', 0.8)); p.wheel(wx, wy, 150, '#6a4634', '#f0c85a');
+      F(p, 980, 1620, 460, BHISHMA, PRAY, { f: -1, head: -14 }); p.curve([[1100, 1640], [1150, 1560], [1110, 1480]], 10, '#c99a4a');
+      F(p, 160, 1640, 360, ARJUNA, { f: 1, lean: 24, aN: [90, 100], aF: [80, 96], lN: [40, 0], lF: [-20, -40] });
+      p.volley(20, 500, 300, 1100, 900, 170, 90, '#3a2a40', 3, 14); p.grass(0, PW, g, 20, '#a89a5a', 80); base(p, '#3a2a36');
+    } });
+  P(K, { title: "Gandhari's Curse", kanda: 'Stri Parva', seed: 407, light: -1,
+    text: 'Among the dead of Kurukshetra, Gandhari tells Krishna that he could have prevented this and did not, and curses his clan to destroy itself in thirty-six years. Krishna answers that he knew, and accepts it.',
+    draw(p) {
+      p.sky(['#2a2c5c', '#5e5488', '#b88078', '#f0bc88']); p.stars(100, 600); p.clouds({ n: 9, y0: 60, y1: 700, size: 210, col: '#62507e', shadow: '#2c2650', light: '#e8a480' });
+      p.ridge({ y: 1100, amp: 40, col: '#5a4a7c', col2: '#8a5e7c', seed: 6 });
+      for (const [x, y] of [[180, 1180], [520, 1140], [860, 1190], [1060, 1150], [360, 1230]]) { p.fire(x, y, 70, 130); p.smoke(x, y - 110, 50, 360, '#4a3a5c', 0.3); }
+      p.fade('#a8707a', 0.25, 800, 1300);
+      const g = p.ridge({ y: 1420, amp: 20, col: '#7a5a5c', col2: '#2e2238', seed: 4, freq: 0.004 });
+      for (let i = 0; i < 16; i++) { const x = p.rr(0, PW); p.line(x, 1500 + p.rr(-40, 160), x + p.rr(-30, 30), 1380 + p.rr(-40, 120), 4, '#3a2a36'); } p.wheel(1040, 1560, 90, '#3a2430', '#8a6a4a'); p.wheel(140, 1660, 70, '#3a2430', '#8a6a4a');
+      const Ga = F(p, 380, 1620, 600, { skin: '#d9b494', robe: '#f1ece4', drape: '#dcd4cc', hair: '#c9c0b8', longhair: true, crown: 'none', sash: false, plain: true }, { f: 1, aN: [100, 96], aF: [20, 50], lean: 6 });
+      p.line(Ga.head[0] - 34, Ga.head[1] - 12, Ga.head[0] + 38, Ga.head[1] - 6, 16, '#fbf8f0');
+      F(p, 800, 1640, 640, KRISHNA, { f: -1, head: 16, aN: [36, 126], aF: [30, 120], halo: '#fff2c8', haloR: 5 });
+      p.birds(20, 100, 200, 1100, 900, '#17121f', 11); base(p, '#17121f');
+    } });
+  P(K, { title: "The Hunter's Arrow", kanda: 'Mausala Parva', seed: 408, light: 1,
+    text: 'His clan destroyed as foretold, Krishna sits alone in the forest. A hunter named Jara mistakes his foot for a deer and looses an arrow. Krishna comforts the man, and leaves the world.',
+    draw(p) {
+      p.sky(['#3a4a84', '#7a78ac', '#dca890', '#f8d8a4']); p.sun(900, 760, 110, '#fff2cc', '#ffbe8c'); p.clouds({ n: 7, y0: 60, y1: 620, size: 180, col: '#8a78a8', shadow: '#40407a', light: '#f6c098' });
+      p.sea(960, '#f0c4a8', '#4a5a98', '#fff2cc', 900, 1300); p.fade('#eab49c', 0.2, 820, 1200);
+      p.forest({ x0: 0, x1: PW, base: 1320, jit: 20, h: 520, n: 8, col: '#4a6a6c', col2: '#5a7460', trunk: '#33304a' }); p.fade('#c09a94', 0.25);
+      const g = p.ridge({ y: 1460, amp: 24, col: '#8a8a64', col2: '#3f4440', seed: 4, freq: 0.004 });
+      p.tree(520, 1560, 1500, { col: '#3f6a5a', trunk: '#3a2c30', spread: 0.44 });
+      scr(p, () => { p.glow(600, 1300, 420, '#fff2c8', 0.7); p.rays(600, 1250, 20, 700, '#fff4d0', 0.2); });
+      const Kr = F(p, 640, 1620, 640, KRISHNA, SIT, { f: 1, lean: -14, lN: [84, 10], lF: [62, -84], aN: [20, 40], aF: [-10, 30], halo: '#fff6d0', haloR: 6, head: 6 });
+      p.arrow(1010, 1500, Kr.fN[0] + 8, Kr.fN[1] - 6, '#5a4038', 5);
+      F(p, 1090, 1560, 260, { skin: '#7a5440', cloth: '#5a6a4a', cloth2: '#8a6a4a', crown: 'bun', plain: true, hair: '#17131f' }, KNEEL, { f: -1, aN: [60, 110], aF: [50, 100], head: 20 });
+      p.grass(0, PW, g, 26, '#6a7a54', 130); for (let i = 0; i < 40; i++) p.circ(p.rr(0, PW), p.rr(1500, 1780), p.rr(4, 8), p.r() < 0.5 ? '#f8d6e0' : '#fff6d0'); p.birds(10, 100, 300, 1100, 800, '#33305a', 9); base(p, '#1c1a26');
+    } });
+
+  // ---------------- Krishna: more landscapes ----------------
+  KL.push({ title: 'The Choice', kanda: 'Udyoga Parva', seed: 501, light: -1,
+    text: 'Both cousins come to Dvaraka for help and find Krishna asleep. He offers one his whole army and the other himself, unarmed. Arjuna, asked first, chooses Krishna. Duryodhana is delighted with the army.',
+    draw(p) {
+      p.sky(['#d4c6e2', '#eedad4', '#fbe8c8', '#f6deb0']); p.city({ x0: 0, x1: 2000, base: 560, h: 380, n: 18, col: '#d2c0d6', col2: '#e4d0c4', gold: '#f6e2a4' }); p.fade('#f6e4cc', 0.5);
+      for (const x of [260, 560, 1440, 1740]) p.pillar(x, 690, 90, 660, '#dcc6ba'); for (let i = 0; i < 8; i++) p.ribbon([[300 + i * 190, 60], [330 + i * 190, 170], [300 + i * 190, 280]], 60, i % 2 ? '#8fa8d8' : '#f0d890', 0.7);
+      scr(p, () => p.glow(1000, 420, 520, '#fff6d8', 0.8)); p.rect(0, 690, 2000, 170, '#c8a890');
+      p.rect(620, 600, 760, 70, '#8a5a3a'); p.rect(600, 580, 800, 30, '#f0c85a'); for (const x of [640, 1360]) p.rect(x - 16, 660, 32, 70, '#6a4630'); p.blob([[640, 580], [1000, 556], [1360, 580], [1000, 596]], '#fbf3e4');
+      F(p, 960, 548, 430, KRISHNA, { fly: true, f: 1, lean: 84, head: -18, lN: [84, 90], lF: [78, 84], aN: [70, 90], aF: [100, 96], halo: '#fff6d0', sash: false });
+      F(p, 1500, 720, 300, ARJUNA, PRAY, { f: -1 }); F(p, 520, 640, 300, DURYO, SIT, { f: 1, aN: [60, 96] }); p.rect(440, 640, 170, 60, '#8a3a4a'); p.rect(430, 620, 190, 26, '#f0c85a');
+      p.lamp(760, 730, 14); p.lamp(1240, 730, 14); p.pillar(60, 900, 170, 900, '#7a5a6a'); p.pillar(1940, 900, 170, 900, '#7a5a6a');
+    } });
+  KL.push({ title: 'Krishna and Karna', kanda: 'Udyoga Parva', seed: 502, light: 1,
+    text: 'Leaving Hastinapura, Krishna takes Karna up on his chariot and tells him the truth: he is Kunti\'s eldest son, and the kingdom is his if he will cross over. Karna knows he will die, and refuses out of loyalty.',
+    draw(p) {
+      p.sky(['#6f8ad0', '#b4b4e0', '#f2d2c4', '#fde4b4']); p.sun(1450, 420, 80, '#fff4c8', '#ffd09a'); p.rays(1450, 420, 28, 1700, '#fff0c8', 0.16);
+      p.clouds({ n: 8, y0: 40, y1: 300, size: 180, col: '#fbeee6', shadow: '#a8a0d0' }); p.streaks({ n: 12, y0: 320, y1: 480, col: '#fff2dc' });
+      p.ridge({ y: 520, amp: 60, col: '#b0a6cc', col2: '#d2bcc4', seed: 8 }); p.city({ x0: 0, x1: 560, base: 540, h: 230, n: 16, col: '#d8c0c8', col2: '#e6d0b8', gold: '#f6e2a4' }); p.fade('#f6dcc8', 0.3);
+      p.sea(560, '#dcdcd8', '#6f98b0', '#fff6dc', 1450, 690);
+      const g = p.ridge({ y: 720, amp: 16, col: '#cbbd84', col2: '#7a7450', seed: 6, freq: 0.004 }); p.forest({ x0: 1500, x1: 2000, base: g, h: 380, n: 5, col: '#6a9070', col2: '#88a064', trunk: '#4a3a38' });
+      const d = p.chariot(760, 800, 250, { f: 1, col: '#b0763a', horse: '#ffffff', canopyCol: '#f0c85a', flag: '#f6e0a0', horses: 4, gait: 'walk' });
+      F(p, d.x + 110, d.y, 320, KRISHNA, { f: -1, aN: [60, 100], aF: [40, 80], halo: '#fff6c8' }); F(p, d.x - 60, d.y, 320, KARNA, { f: 1, head: 16, aN: [10, 30], halo: '#fff0b0' });
+      p.grass(0, 2000, g, 22, '#a0a05c', 140); p.tree(60, 900, 880, { col: '#3f5a48', trunk: '#241a26' }); p.birds(12, 500, 100, 1300, 320, '#5a5880', 8);
+    } });
+  KL.push({ title: 'The False Sunset', kanda: 'Drona Parva', seed: 503, light: -1,
+    text: 'Arjuna has sworn to kill Jayadratha before sunset or enter the fire. As the day runs out Krishna veils the sun. Jayadratha looks up to see, and Krishna says: there is the sun, and there is his head.',
+    draw(p) {
+      p.sky(['#1c1c44', '#3c3470', '#74508a', '#b8747c']); p.stars(140, 300);
+      p.clouds({ n: 9, y0: 30, y1: 330, size: 210, col: '#4a3f78', shadow: '#201c48', light: '#c88a8c' });
+      scr(p, () => { p.glow(1420, 300, 520, '#ffb070', 0.7); }); p.circ(1420, 300, 120, '#ffe0a0'); p.circ(1385, 300, 122, '#241e4c');
+      scr(p, () => { p.glow(1260, 300, 220, '#fff0b0', 0.9); }); p.c.strokeStyle = '#fff6c8'; p.c.lineWidth = 14; p.c.beginPath(); p.c.arc(1385, 300, 132, 0, 6.3); p.c.stroke(); for (let i = 0; i < 16; i++) p.line(1385 + Math.cos(i * 0.39) * 132, 300 + Math.sin(i * 0.39) * 132, 1385 + Math.cos(i * 0.39) * 168, 300 + Math.sin(i * 0.39) * 168, 8, '#fff0b0');
+      p.ridge({ y: 610, amp: 30, col: '#4a3f70', col2: '#6a4a70', seed: 6 });
+      p.crowd({ x0: 900, x1: 2000, y: 660, jit: 26, h: 34, n: 260, col: '#3a3058', col2: '#6a3f52', spears: 0.6, banners: 0.05, bannerCol: '#b8323a', dir: -1 });
+      for (const x of [1300, 1560, 1800]) p.quad(x, 690, 90, { kind: 'elephant', f: -1, col: '#5a5672', cloth: '#7a2f3a' });
+      F(p, 1560, 800, 260, { skin: '#c99a78', top: '#8a8aa0', cloth: '#5a4a6a', cloth2: '#b8323a', crown: 'mukut', hair: '#17131f' }, { f: -1, head: -30, aN: [140, 160], lean: -6 });
+      const g = p.ridge({ y: 740, amp: 16, col: '#5a4a6c', col2: '#221c34', seed: 3, freq: 0.004 });
+      const d = p.chariot(430, 790, 210, { f: 1, col: '#b0763a', horse: '#ffffff', canopyCol: '#f0c85a', flag: '#f6e0a0', horses: 4 });
+      F(p, d.x + 10, d.y, 260, ARJUNA, ARCH, { f: 1, lean: -8, prop: { type: 'bow', hand: 'F', ang: 182, drawn: true, glow: '#fff0a0', len: 0.46 } });
+      F(p, d.x + 110, d.y, 240, KRISHNA, { f: 1, aN: [150, 170], halo: '#fff6c8' });
+      for (let i = 0; i < 60; i++) p.lamp(p.rr(900, 2000), p.rr(640, 760), 4); p.birds(20, 300, 60, 1800, 300, '#12101f', 9);
+    } });
+  KL.push({ title: 'The Song on the Battlefield', kanda: 'Bhishma Parva (Gita 2)', seed: 504, light: 1,
+    text: '"You have a right to the work alone, never to its fruits. Do not let the fruit of action be your motive, and do not cling to inaction." Arjuna has laid down his bow, and Krishna begins to teach.',
+    draw(p) {
+      p.sky(['#6a7ac0', '#b0a8dc', '#f3c8b8', '#fde2a8']); p.sun(1000, 480, 110, '#fff3c0', '#ffc890'); p.rays(1000, 480, 46, 1500, '#ffe6b8', 0.2);
+      p.clouds({ n: 9, y0: 30, y1: 320, size: 200, col: '#f6dcd6', shadow: '#9a90c8', light: '#fff0d0' });
+      p.ridge({ y: 580, amp: 26, col: '#b8a0c0', col2: '#d6b8b0', seed: 4 }); p.fade('#f6d6b8', 0.3, 440, 680);
+      p.crowd({ x0: 0, x1: 560, y: 640, jit: 22, h: 34, n: 180, col: '#c9a060', col2: '#e6d0a0', spears: 0.6, banners: 0.06, bannerCol: '#f0c85a' }); p.crowd({ x0: 1440, x1: 2000, y: 640, jit: 22, h: 34, n: 180, col: '#5a4a6a', col2: '#8a5a5a', spears: 0.6, banners: 0.06, bannerCol: '#b8323a', dir: -1 });
+      const g = p.ridge({ y: 720, amp: 14, col: '#d8c290', col2: '#8a7450', seed: 6, freq: 0.004 });
+      const d = p.chariot(940, 800, 300, { f: 1, col: '#b0763a', horse: '#ffffff', canopyCol: '#f0c85a', flag: '#f6e0a0', horses: 4, gait: 'stand' });
+      const A = F(p, d.x - 70, d.y + 8, 330, ARJUNA, SIT, { f: 1, lean: 24, head: 30, aN: [30, 60], aF: [20, 50] }); p.curve([[d.x - 190, d.y - 10], [d.x - 150, d.y - 100], [d.x - 200, d.y - 190]], 10, '#c99a4a');
+      F(p, d.x + 110, d.y, 400, KRISHNA, { f: -1, aN: [70, 120], aF: [30, 60], halo: '#fff6c8', haloR: 6 }); scr(p, () => p.glow(d.x + 60, d.y - 300, 300, '#fff4c8', 0.5));
+      p.grass(0, 2000, g, 18, '#a89a5a', 110); p.birds(26, 200, 60, 1800, 320, '#3a3055', 9);
+    } });
+  KL.push({ title: 'Dvaraka Returns to the Sea', kanda: 'Mausala Parva', seed: 505, light: -1,
+    text: 'When Krishna has gone, the ocean rises over his city street by street. Arjuna leads the survivors out and looks back to see the towers go under.',
+    draw(p) {
+      p.sky(['#2c3460', '#5a6090', '#98a0b4', '#d8ccb0']); p.sun(1500, 250, 60, '#f8f6e0', '#d0d4c8'); p.clouds({ n: 10, y0: 20, y1: 340, size: 220, col: '#6a7494', shadow: '#2f3860', light: '#d6d6cc' });
+      p.city({ x0: 500, x1: 1700, base: 640, h: 440, n: 30, col: '#c8b88c', col2: '#a898b0', gold: '#f0e0a0', peakX: 1100, peakW: 380 }); p.fade('#8a98ac', 0.3);
+      p.sea(520, '#a0b8c0', '#284c6c', '#e8f0e8', 1500); p.city({ x0: 600, x1: 1600, base: 700, h: 200, n: 12, col: '#9a9478', col2: '#7a7890', gold: '#d8cc98' });
+      p.sea(640, '#7fa0b0', '#20405c', '#e8f0e8', 1500);
+      for (let i = 0; i < 22; i++) { const x = p.rr(500, 1700), y = p.rr(640, 740); p.blob([[x - 130, y + 30], [x - 50, y - p.rr(20, 60)], [x + 40, y - p.rr(10, 40)], [x + 140, y + 30]], p.r() < 0.3 ? '#c8dcdc' : '#4f7f98', 0.9); }
+      p.waves(680, 840, '#2f5878', 50, '#eef6f0');
+      const g = p.ridge({ y: 800, amp: 34, col: '#b4a888', col2: '#4a4448', seed: 9, peak: [260, 420, 150], freq: 0.005, x1: 900 });
+      F(p, 420, g(420) + 4, 230, ARJUNA, { f: 1, head: -8, aN: [20, 40], prop: { type: 'bow', hand: 'N', ang: 176 } });
+      p.crowd({ x0: 0, x1: 340, y: g, h: 90, n: 26, col: '#6a5a6a', col2: '#b89a7a' }); p.quad(120, g(120) + 4, 110, { kind: 'elephant', f: -1, col: '#7a7486', cloth: '#5a6a9a' });
+      p.birds(30, 300, 80, 1800, 420, '#e8eef0', 9);
+    } });
+
+  Epic.scenes.rama = R; Epic.scenes.krishna = K; Epic.scenes.krishnaland = KL;
+})();

diff --git a/public/epics/mahabharata.js b/public/epics/mahabharata.js
@@ -397,9 +397,9 @@
       scr(p, () => { p.glow(1000, 300, 980, '#ffe6a0', 0.95); p.rays(1000, 300, 60, 1600, '#fff3c0', 0.3); for (let i = 0; i < 9; i++) p.glow(1000 + Math.cos(i * 0.7) * 620, 300 + Math.sin(i * 0.7) * 260, 90, ['#ffd0a0', '#c0d0ff', '#ffe0f0'][i % 3], 0.8); });
       for (const r of [330, 520, 720]) { p.c.strokeStyle = 'rgba(255,240,190,0.5)'; p.c.lineWidth = 5; p.c.beginPath(); p.c.ellipse(1000, 330, r, r * 0.5, 0, 0, 6.3); p.c.stroke(); }
       const arms = []; for (let i = 0; i < 12; i++) arms.push([40 + i * 13, 70 + i * 11]);
-      F(p, 1000, 800, 880, KRISHNA, { f: 1, skin: '#5a7ad0', heads: 4, arms: arms, aN: [150, 176], aF: [110, 140], halo: '#fff6c0', haloR: 10, broad: 1.35, lN: [10, 2], lF: [-10, -3], prop: [{ type: 'chakra', hand: 'N' }, { type: 'mace', hand: 'F', ang: 110, len: 0.24 }] });
-      F(p, 1000, 800, 880, KRISHNA, { f: -1, skin: '#5a7ad0', arms: arms, aN: [150, 176], aF: [110, 140], broad: 1.35, lN: [10, 2], lF: [-10, -3], crown: 'none', sash: false, prop: [{ type: 'trident', hand: 'N', ang: 176, len: 0.3 }] });
-      F(p, 1000, 800, 880, KRISHNA, { f: 1, skin: '#5a7ad0', heads: 4, aN: [30, 80], aF: [20, 70], broad: 1.35, lN: [10, 2], lF: [-10, -3], halo: '#fff6c0', haloR: 6 });
+      F(p, 1000, 800, 650, KRISHNA, { f: 1, skin: '#5a7ad0', heads: 4, arms: arms, aN: [150, 176], aF: [110, 140], halo: '#fff6c0', haloR: 10, broad: 1.35, lN: [10, 2], lF: [-10, -3], prop: [{ type: 'chakra', hand: 'N' }, { type: 'mace', hand: 'F', ang: 110, len: 0.24 }] });
+      F(p, 1000, 800, 650, KRISHNA, { f: -1, skin: '#5a7ad0', arms: arms, aN: [150, 176], aF: [110, 140], broad: 1.35, lN: [10, 2], lF: [-10, -3], crown: 'none', sash: false, prop: [{ type: 'trident', hand: 'N', ang: 176, len: 0.3 }] });
+      F(p, 1000, 800, 650, KRISHNA, { f: 1, skin: '#5a7ad0', heads: 4, aN: [30, 80], aF: [20, 70], broad: 1.35, lN: [10, 2], lF: [-10, -3], halo: '#fff6c0', haloR: 6 });
       p.fade('#f6c890', 0.16, 0, 760); scr(p, () => p.glow(1000, 150, 300, '#ffffff', 0.5));
       p.ridge({ y: 700, amp: 30, col: '#7a5a80', col2: '#3a2a4a', seed: 6 });
       p.crowd({ x0: 0, x1: 760, y: 740, jit: 26, h: 34, n: 160, col: '#c9a060', col2: '#8a6a50', spears: 0.6, banners: 0.05, bannerCol: '#f0c85a' }); p.crowd({ x0: 1240, x1: W, y: 740, jit: 26, h: 34, n: 160, col: '#4a3a5a', col2: '#7a4a50', spears: 0.6, banners: 0.05, bannerCol: '#b8323a', dir: -1 });

diff --git a/public/epics/engine.js b/public/epics/engine.js
@@ -3,7 +3,7 @@
    with layered brush strokes that follow the edges of the picture. */
 (function (root) {
   'use strict';
-  const W = 2000, H = 860, TAU = Math.PI * 2, D = Math.PI / 180;
+  let W = 2000, H = 860; const TAU = Math.PI * 2, D = Math.PI / 180;
 
   function mulberry(seed) {
     let s = (seed >>> 0) || 1;
@@ -632,10 +632,11 @@
     }
     oc.setTransform(1, 0, 0, 1, 0, 0); oc.globalAlpha = o.crisp == null ? 0.16 : o.crisp; oc.drawImage(ref, 0, 0); oc.globalAlpha = 1;
     for (let i = 0; i < 120000; i++) { oc.fillStyle = r() < 0.5 ? 'rgba(255,250,235,0.06)' : 'rgba(30,18,44,0.06)'; oc.fillRect(r() * w, r() * h, 1 + r() * 2.5, 1 + r() * 2.5); }
-    const g = oc.createRadialGradient(w / 2, h / 2, h * 0.5, w / 2, h / 2, w * 0.72); g.addColorStop(0, 'rgba(30,16,40,0)'); g.addColorStop(1, 'rgba(30,16,40,0.3)'); oc.fillStyle = g; oc.fillRect(0, 0, w, h);
+    const g = oc.createRadialGradient(w / 2, h / 2, Math.min(w, h) * 0.5, w / 2, h / 2, Math.hypot(w, h) * 0.62); g.addColorStop(0, 'rgba(30,16,40,0)'); g.addColorStop(1, 'rgba(30,16,40,0.3)'); oc.fillStyle = g; oc.fillRect(0, 0, w, h);
   }
 
   function render(scene, out, seedShift) {
+    W = scene.w || 2000; H = scene.h || 860;
     const ref = document.createElement('canvas'); ref.width = W; ref.height = H; out.width = W; out.height = H;
     const ctx = ref.getContext('2d'), seed = (scene.seed || 7) + (seedShift || 0);
     scene.draw(new Painter(ctx, seed, scene.light || -1));
